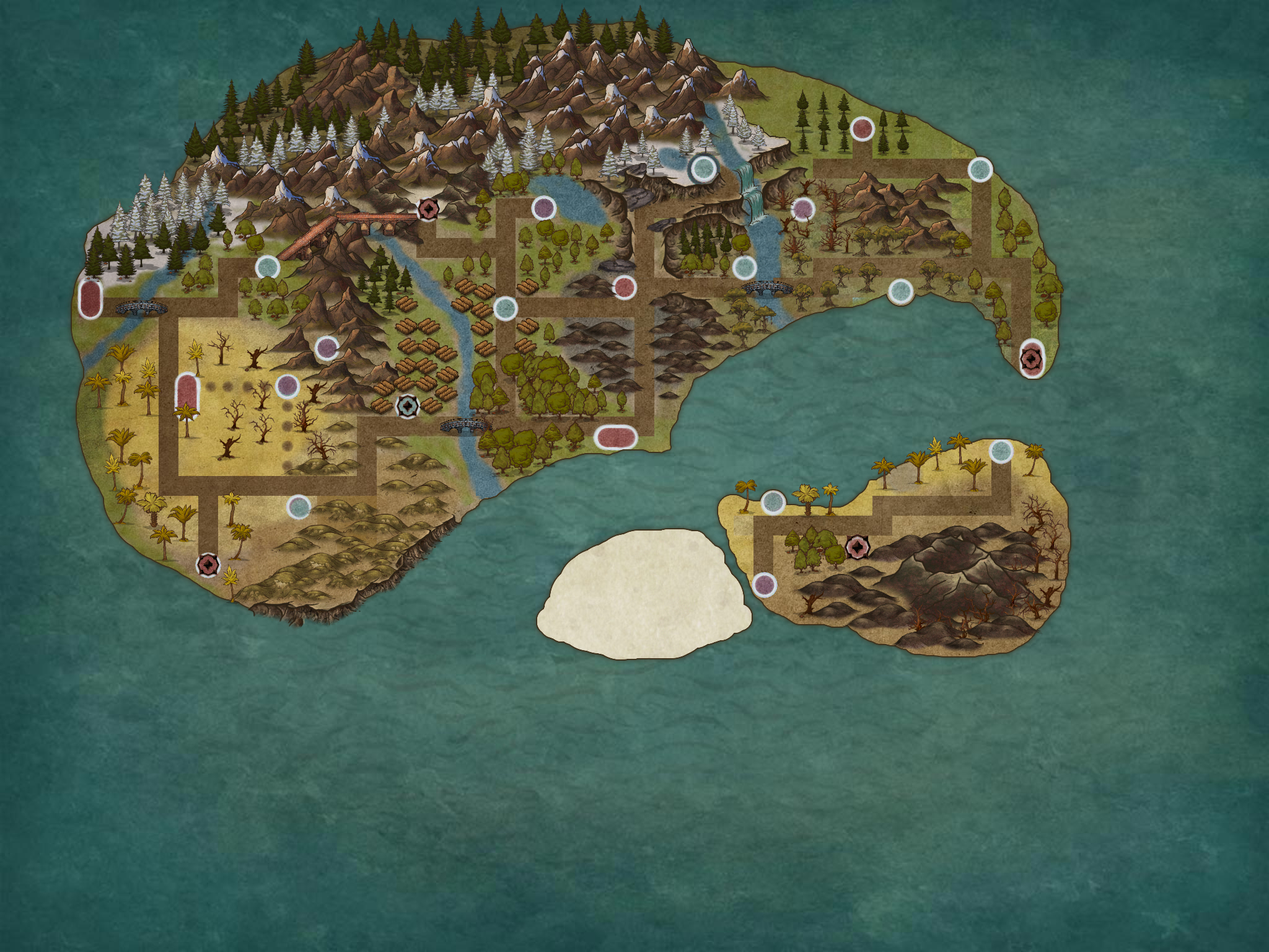
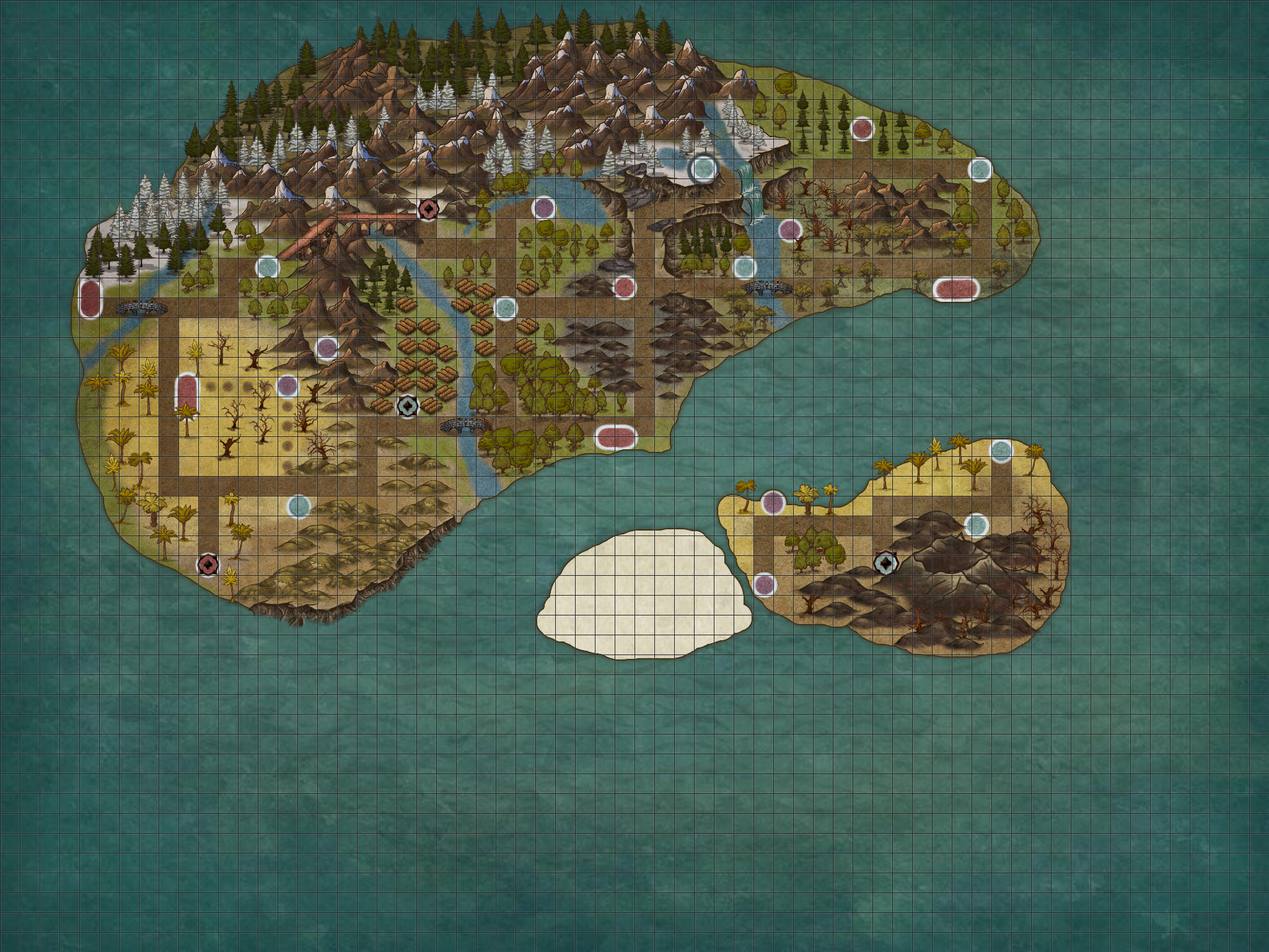
Working on moving markers around.

diff --git a/components/canvas.js b/components/canvas.js
@@ -1,6 +1,7 @@
 import React, { useState } from 'react'
 import styled from 'styled-components'
 import window from 'global'
+import interact from 'interactjs'
 import { Icon, Menu, Segment, Sidebar } from 'semantic-ui-react'
 
 import Note from './note'
@@ -18,6 +19,7 @@ const SCanvas = styled.div`
     background-color: black;
     margin-top: -1rem;
     margin-bottom: 0.75em;
+    user-select: none;
 
     @media(min-width: 568px) {
         width: calc(100% - 65px);
@@ -52,18 +54,24 @@ const Img = styled.img`
 `
 
 const Marker = styled.div.attrs(props => ({
-    x: props.left - (props.radius / 2),
-    y: props.top - (props.radius / 2)
+    x: props.left - (props.width / 2),
+    y: props.top - (props.height / 2)
 }))`
     top: ${props => props.y}px;
     left: ${props => props.x}px;
-    width: ${props => props.radius}px;
-    height: ${props => props.radius}px;
+    width: ${props => props.width || 50}px;
+    height: ${props => props.height || 50}px;
     border-radius: 999999px;
     background-color: black;
     position: absolute;
     transition: opacity 300ms cubic-bezier(.18,.03,.83,.95);
     opacity: ${props => props.opacity};
+    touch-action: none;
+    user-select: none;
+
+    &:hover {
+        cursor: pointer;
+    }
 `
 
 const Buttons = styled.div`
@@ -87,10 +95,6 @@ const Column = styled.div`
 
     @media(min-width: 568px) {
         display: flex;
-        height: 60px;
-    }
-
-    @media(min-width: 1024px) {
         flex-direction: column;
         height: 150px;
     }
@@ -123,6 +127,7 @@ class Canvas extends React.Component {
         }
 
         this.image = React.createRef();
+        this.marker = React.createRef();
     }
 
     componentDidMount() {
@@ -137,6 +142,42 @@ class Canvas extends React.Component {
             zoom = 0.5
         }
         this.setState({ zoom })
+
+        let self = this
+        interact('.marker')
+            .draggable({
+                inertia: false,
+                modifiers: [
+                    interact.modifiers.restrictRect({
+                        restriction: 'parent',
+                        endOnly: true
+                    })
+                ],
+                autoScroll: true,
+                onmove: function(event) {
+                    console.log(event)
+                    const { target, dx, dy } = event
+                    // keep the dragged position in the x/y attributes
+                    var x = (parseFloat(target.getAttribute('x')) || 0) + dx
+                    var y = (parseFloat(target.getAttribute('y')) || 0) + dy
+                    console.log({x, y, dx, dy})
+                    console.log('translate x:', (x + (50 / 2)) * self.state.zoom)
+                    console.log('translate y:', (y + (50 / 2)) * self.state.zoom)
+                    // translate the element
+                    target.style.transform =
+                        `translate(
+                            ${((x + (50 / 2)) * self.state.zoom)}px,
+                            ${((y + (50 / 2)) * self.state.zoom)}px
+                        )`
+
+                    // update the posiion attributes
+                    target.setAttribute('x', x)
+                    target.setAttribute('y', y)
+                },
+                onend: function(e) {
+                    console.log(e)
+                }
+            })
     }
 
     zoomIn = () => {
@@ -163,8 +204,12 @@ class Canvas extends React.Component {
                                 <Marker
                                     top={marker.top * this.state.zoom}
                                     left={marker.left * this.state.zoom}
-                                    radius={50 * this.state.zoom}
+                                    width={(marker.width ? marker.width : 50) * this.state.zoom}
+                                    height={(marker.height ? marker.height : 50) * this.state.zoom}
                                     opacity={this.state.opacity}
+                                    onMouseDown={this.handleDrag}
+                                    ref={this.marker}
+                                    className="marker"
                                 />
                             </Note>
 
@@ -181,7 +226,7 @@ class Canvas extends React.Component {
                         </Item>
                     </Column>
                     <Column>
-                        <Item pushed={this.state.opacity} onClick={() => this.setState({ opacity: 1 })}>
+                        <Item pushed={this.state.opacity} onClick={() => this.setState({ opacity: 0.6 })}>
                             <Icon name="eye" size="big" />
                         </Item>
                         <Item pushed={!this.state.opacity} onClick={() => this.setState({ opacity: 0 })}>

diff --git a/server/models/markerModel.js b/server/models/markerModel.js
@@ -4,6 +4,8 @@ const schema = mongoose.Schema
 const markerModel = new schema({
     top: { type: Number } ,
     left: { type: Number },
+    width: { type: Number },
+    height: { type: Number },
     note_title: { type: String },
     note_body: { type: {} }
 })
